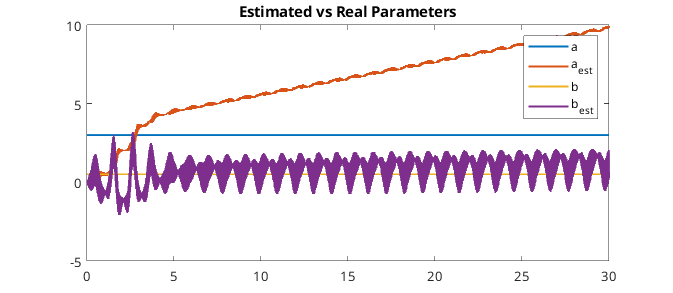
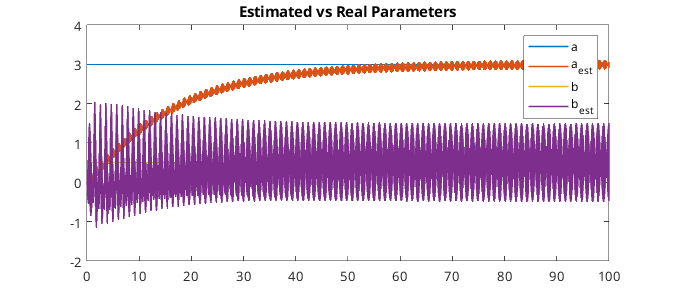
Fixed SP for 2D Lyapunov System

diff --git a/src/multidimensional_lyapunov_system_of_odes.m b/src/multidimensional_lyapunov_system_of_odes.m
@@ -10,19 +10,25 @@ function dydt = multidimensional_lyapunov_system_of_odes(t, y)
     [data] = load_data(3);
     A = data{1};
     B = data{2};
-    gamma_1 = data{3};
-    gamma_2 = data{4};
-    u = data{5};
+    Am = data{3};
+    gamma_1 = data{4};
+    gamma_2 = data{5};
+    u = data{6};
 
     % ODEs system
-    dydt(1) = A(1, 1)*y(1) + A(1, 2)*y(2) + B(1)*u(t);
-    dydt(2) = A(2, 1)*y(1) + A(2, 2)*y(2) + B(2)*u(t);
-    dydt(3) = y(3)*y(5) + y(4)*y(6) + y(9)*u(t);
-    dydt(4) = y(3)*y(7) + y(4)*y(8) + y(10)*u(t);
-    dydt(5) = gamma_1*(y(1)*y(3) - y(3)^2);
-    dydt(6) = gamma_1*(y(2)*y(3) - y(3)*y(4));
-    dydt(7) = gamma_1*(y(1)*y(4) - y(3)*y(4));
-    dydt(8) = gamma_1*(y(2)*y(4) - y(4)^2);
+    dydt(1) = A(1,1)*y(1) + A(1,2)*y(2) + B(1)*u(t);
+    dydt(2) = A(2,1)*y(1) + A(2,2)*y(2) + B(2)*u(t);
+
+    dydt(3) = Am(1,1)*y(3) + Am(1,2)*y(4) + (y(5)-Am(1,1))*y(1) ...
+        + (y(6)-Am(1,2))*y(2) + y(9)*u(t);
+    dydt(4) = Am(2,1)*y(3) + Am(2,2)*y(4) + (y(7)-Am(2,1))*y(1) ...
+        + (y(8)-Am(2,2))*y(2) + y(10)*u(t);
+
+    dydt(5) = gamma_1*(y(1)^2 - y(1)*y(3));
+    dydt(6) = gamma_1*(y(1)*y(2) - y(2)*y(3));
+    dydt(7) = gamma_1*(y(1)*y(2) - y(1)*y(4));
+    dydt(8) = gamma_1*(y(2)^2 - y(2)*y(4));
+
     dydt(9) = gamma_2*(y(1)-y(3))*u(t);
     dydt(10) = gamma_2*(y(2)-y(4))*u(t);
 

diff --git a/task3.m b/task3.m
@@ -11,7 +11,7 @@ function task3()
     B = data{2};
 
     % Solve the ODE
-    tspan = 0 : 0.01 : 50;
+    tspan = 0 : 0.01 : 100;
 
     % Lyapunov -- Series-Parallel Configuration
     [~, y_matrix] = ode45(@multidimensional_lyapunov_system_of_odes, tspan, [0; 0; 0; 0; 0; 0; 0; 0; 0; 0]);
@@ -30,12 +30,12 @@ function task3()
 
     % Plot y_i and y_i_est
     figure(1)
-    plot(tspan, y1, tspan, y1_est, 'LineWidth', 1.5);
+    plot(tspan, y1, tspan, y1_est, 'LineWidth', 1.2);
     legend("y_1", "y_1_e_s_t");
     title("y1 and estimated y1_e_s_t: Lyapunov 2D");
 
     figure(2)
-    plot(tspan, y2, tspan, y2_est, 'LineWidth', 1.5);
+    plot(tspan, y2, tspan, y2_est, 'LineWidth', 1.2);
     legend("y_2", "y_2_e_s_t");
     title("y2 and estimated y2_e_s_t: Lyapunov 2D");
 

diff --git a/src/load_data.m b/src/load_data.m
@@ -28,6 +28,8 @@ function [data] = load_data(task_number)
     A = [a11, a12;
          a21, a22];
     B = [b1; b2];
+    Am = [-1, 0;
+           0, -1];
     u_lyapunov_2d = @(t) 3.5*sin(7.2*t) + 2*sin(11.7*t);
 
     % Return the values
@@ -36,7 +38,7 @@ function [data] = load_data(task_number)
     elseif task_number == 2
         data = {a, b, theta_m, gamma_1, gamma_2, u_lyapunov, noise};
     elseif task_number == 3
-        data = {A, B, gamma_1, gamma_2, u_lyapunov_2d};
+        data = {A, B, Am, gamma_1, gamma_2, u_lyapunov_2d};
     else
         fprintf("No Task was selected to return the corresponding data\n");
     end

diff --git a/task2.m b/task2.m
@@ -6,8 +6,8 @@ function task2()
     % Solve the system for Lyapunov method
     % conf: 'p' for parallel configuration
     % conf: 'sp' for series-parallel configuration
-    %conf = "p";
-    conf = "sp";
+    conf = "p";
+    %conf = "sp";
     
     % System ode: y' = -a*y + b*u
     [data] = load_data(2);
